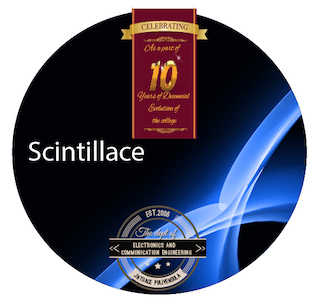
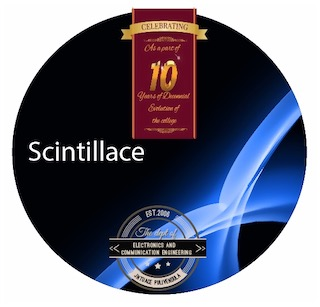
A bit more change on images for better sizes

diff --git a/src/components/Projects.vue b/src/components/Projects.vue
@@ -30,7 +30,7 @@
 <script>
 import GaLogo from "../assets/projects/ga-logo.png";
 import MyLogo from "../assets/logo.svg";
-import Pic1Word from "../assets/projects/4pic1word-logo.png";
+import Pic1Word from "../assets/projects/4pic1word-logo.jpg";
 import Poster1 from "../assets/portfolio/1.jpg";
 import Poster2 from "../assets/portfolio/2.jpg";
 import Poster3 from "../assets/portfolio/3.jpg";
